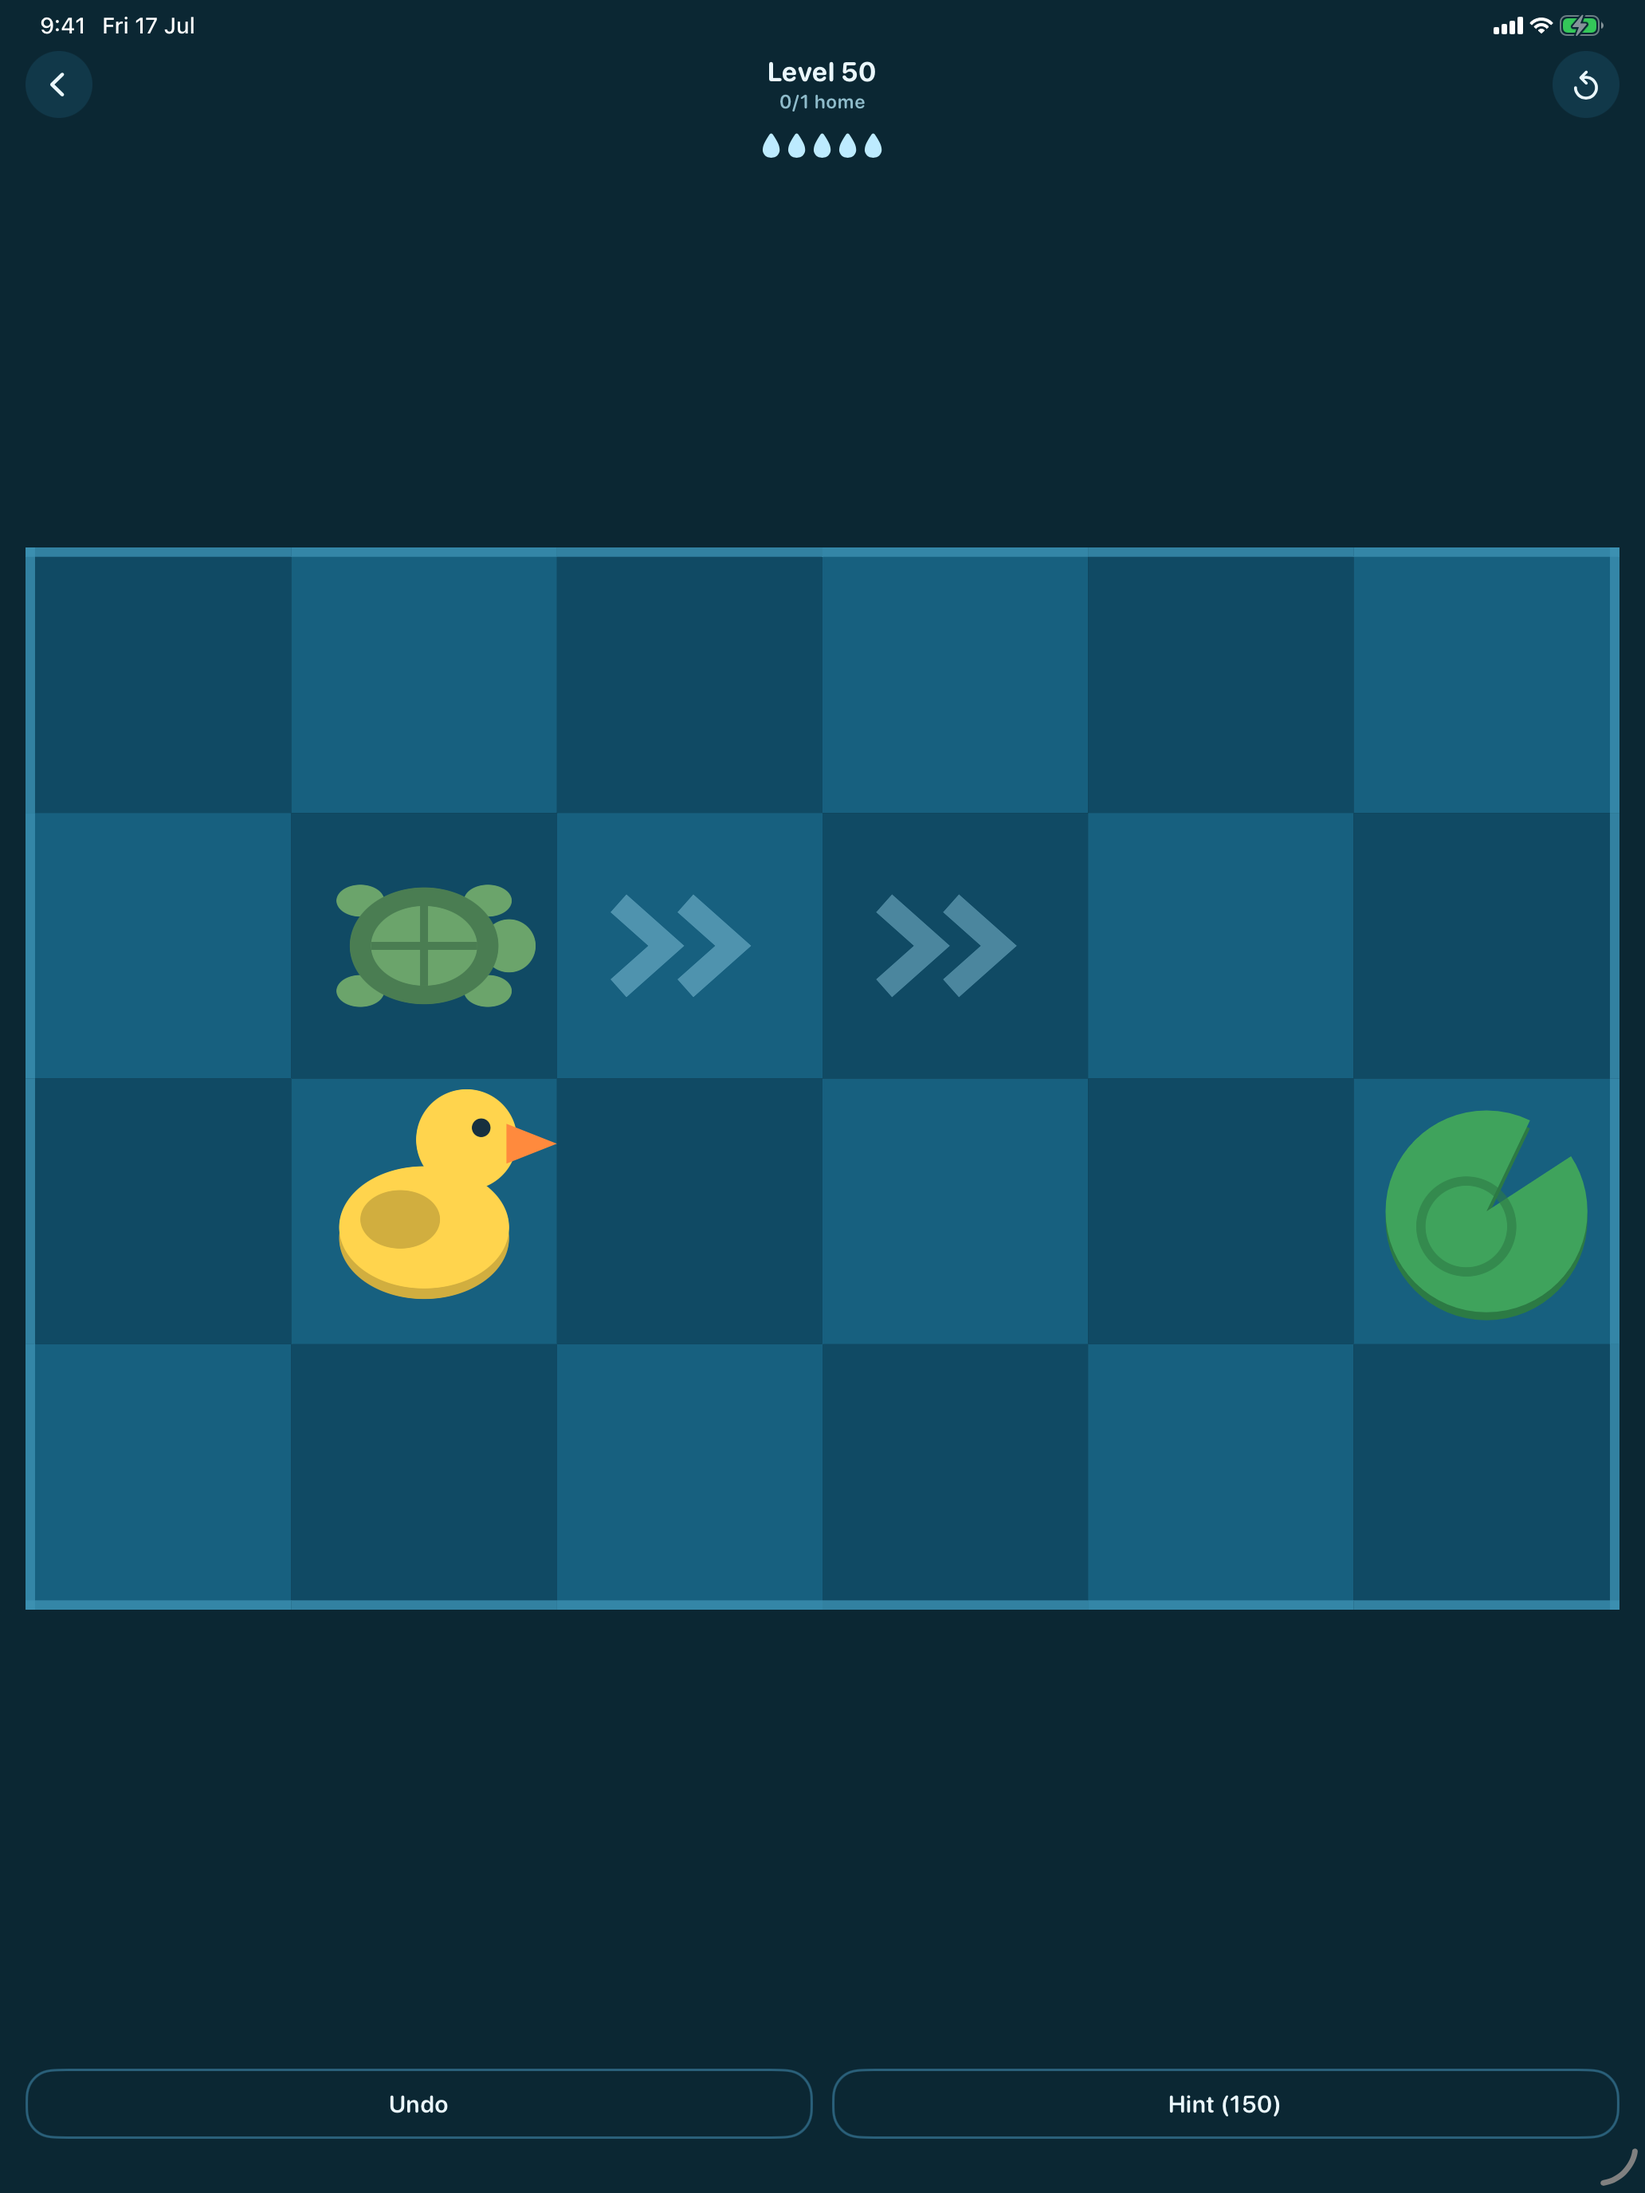
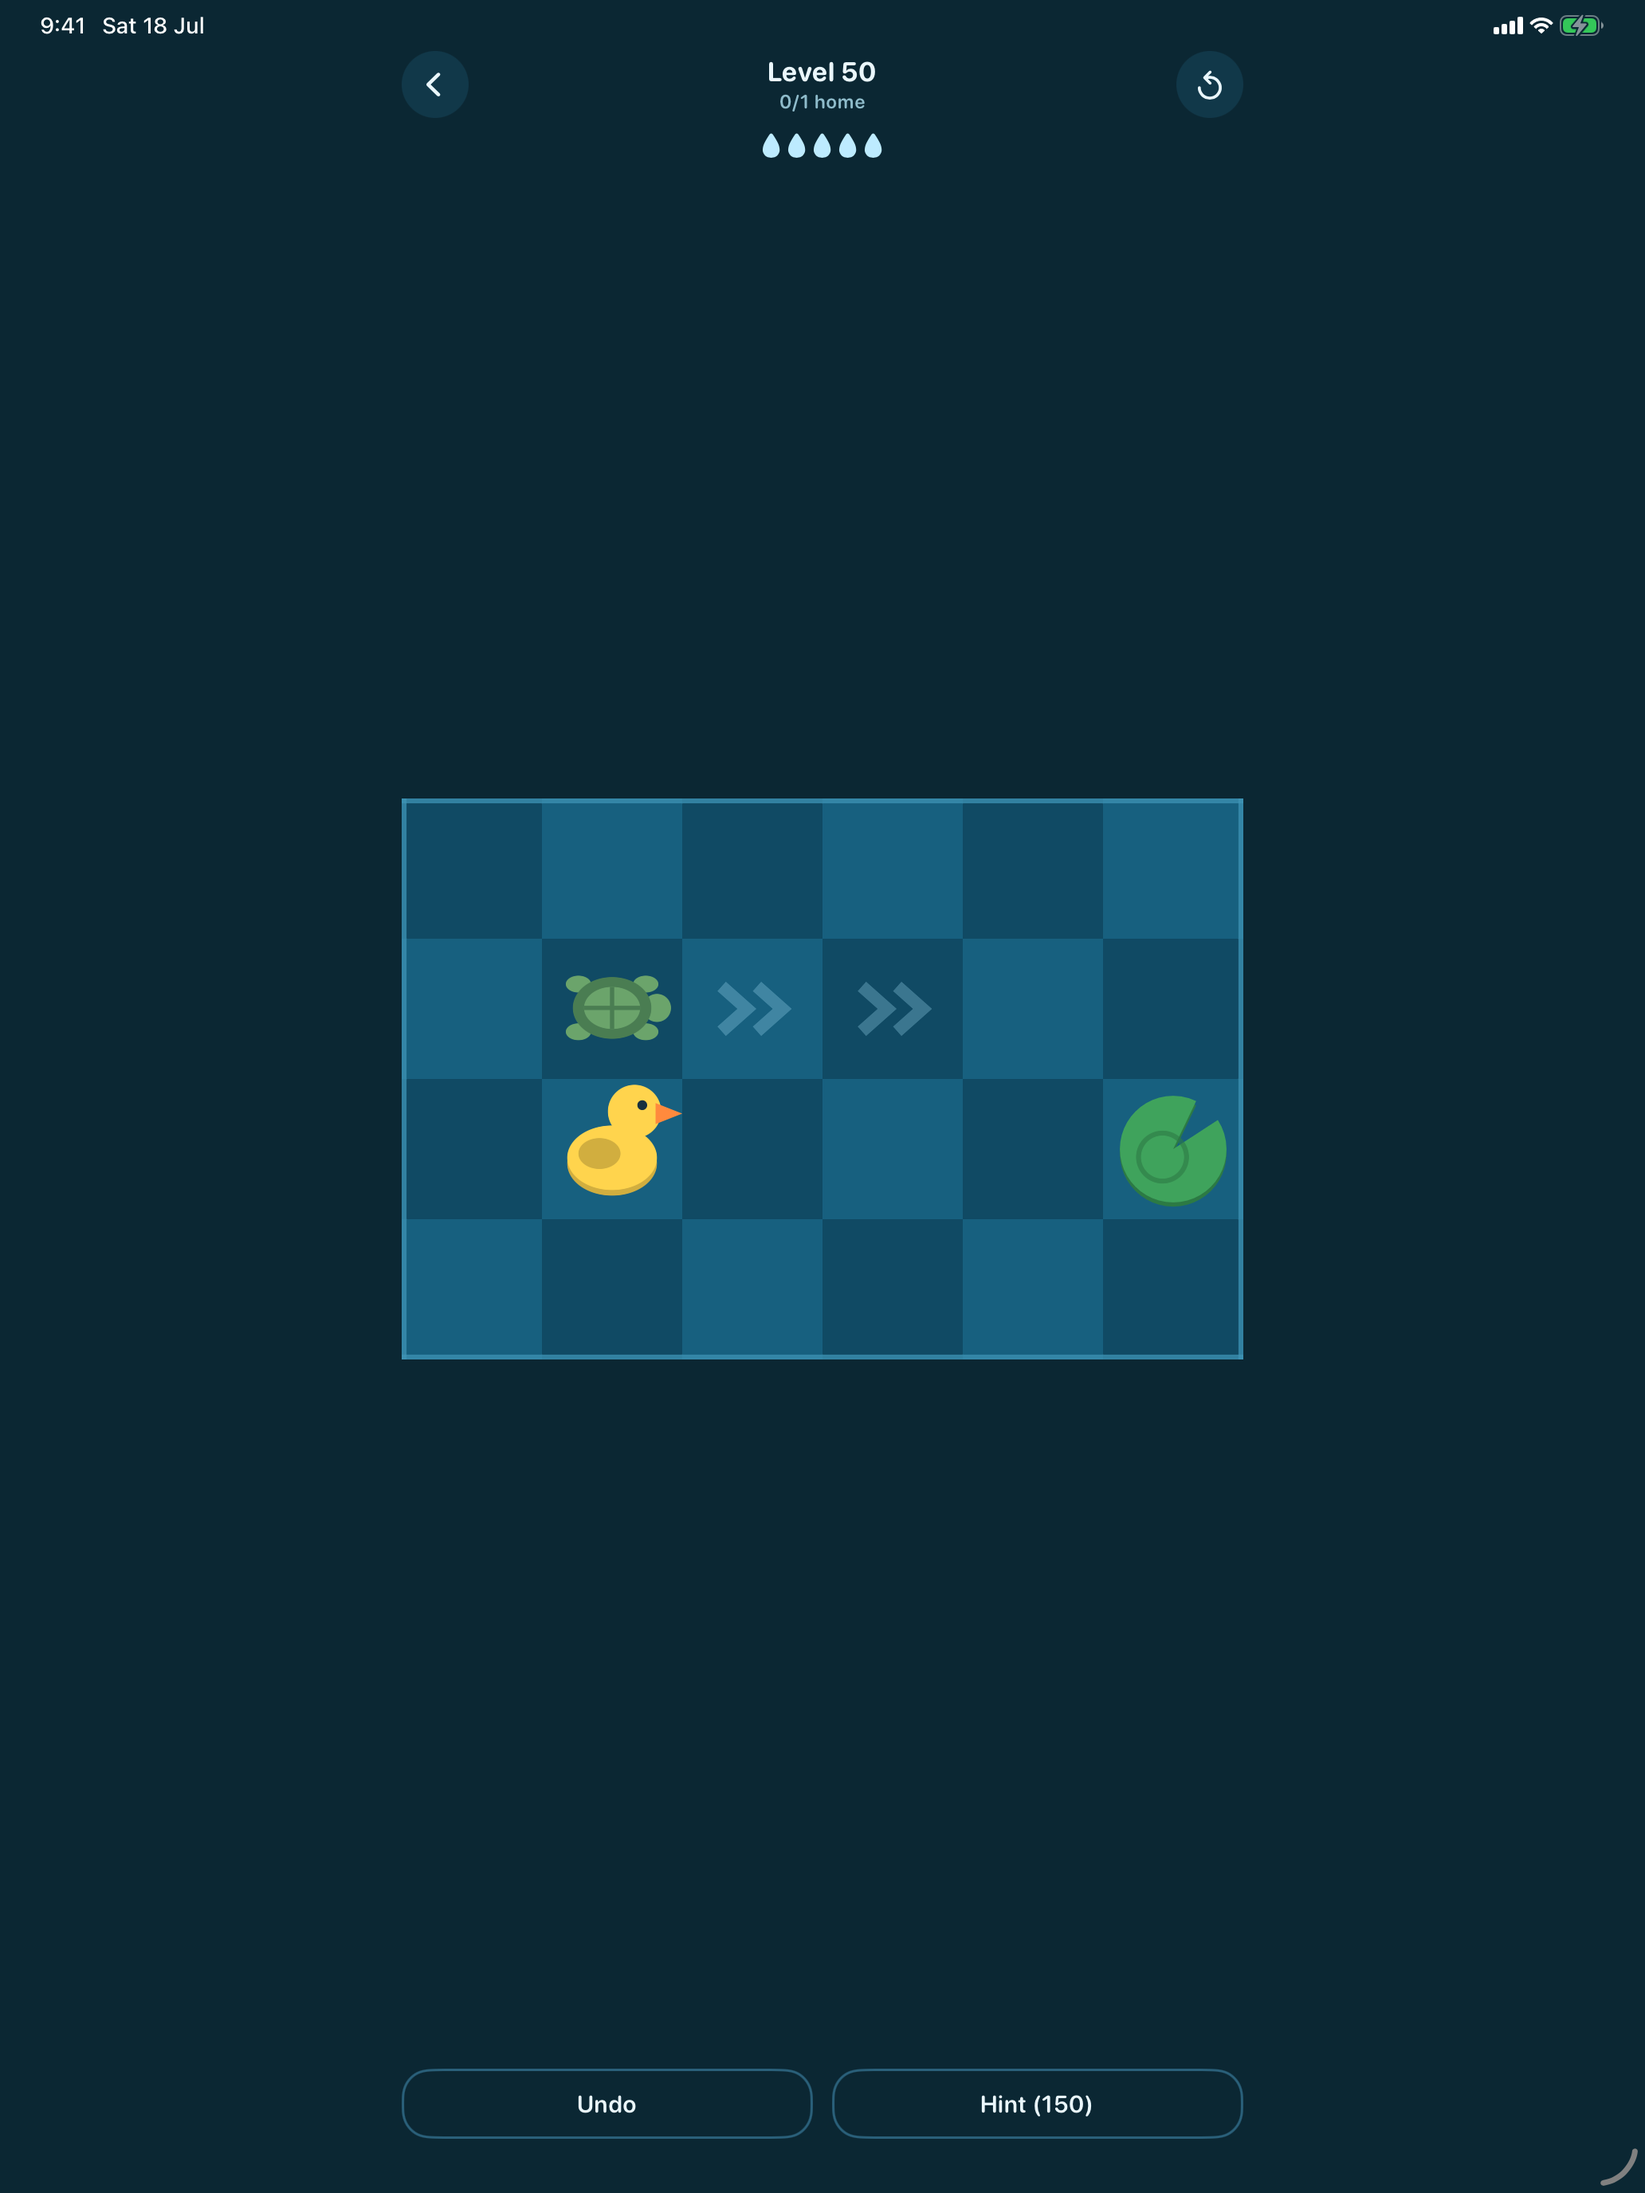
store

diff --git a/PondPulse/UI/Components.swift b/PondPulse/UI/Components.swift
@@ -130,7 +130,7 @@ struct OverlayCard<Content: View>: View {
                 content
             }
             .padding(28)
-            .frame(maxWidth: .infinity)
+            .frame(maxWidth: 420)
             .background(palette.surfaceHigh, in: RoundedRectangle(cornerRadius: 28, style: .continuous))
             .shadow(color: .black.opacity(palette.isDark ? 0.45 : 0.18), radius: 24, y: 10)
             .padding(32)
@@ -213,5 +213,15 @@ enum Haptics {
     static func tick(enabled: Bool) {
         guard enabled else { return }
         soft.impactOccurred(intensity: 0.7)
+    }
+}
+
+// MARK: - Layout helpers
+
+extension View {
+    /// Caps a screen's content at phone-ish width and centers it, so iPads
+    /// don't stretch the phone layout edge to edge.
+    func pondContentWidth(_ maxWidth: CGFloat = 520) -> some View {
+        frame(maxWidth: maxWidth)
     }
 }

diff --git a/PondPulse/Screens/RushView.swift b/PondPulse/Screens/RushView.swift
@@ -140,6 +140,7 @@ private struct RushSetup: View {
                 .padding(.horizontal, 24)
             }
         }
+        .pondContentWidth()
     }
 }
 
@@ -226,6 +227,7 @@ private struct RushPlay: View {
                 .padding(.bottom, 14)
             }
             .padding(.horizontal, 16)
+            .pondContentWidth(560)
 
             if state.won {
                 WinCelebration(skinId: vm.skinId)

diff --git a/PondPulse/Screens/SettingsView.swift b/PondPulse/Screens/SettingsView.swift
@@ -17,6 +17,11 @@ struct SettingsView: View {
     @State private var pickLanguage = false
 
     var body: some View {
+        content
+            .pondContentWidth()
+    }
+
+    private var content: some View {
         VStack(spacing: 0) {
             ScreenHeader(title: strings["settings_title"], onBack: { vm.back() })
 

diff --git a/PondPulse/Screens/GameView.swift b/PondPulse/Screens/GameView.swift
@@ -106,6 +106,7 @@ struct GameView: View {
                 .padding(.bottom, 14)
             }
             .padding(.horizontal, 16)
+            .pondContentWidth(560)
 
             // Win sequence: a heartbeat of confetti and a spinning duck, then the card.
             if state.won {

diff --git a/PondPulse/Screens/ShopView.swift b/PondPulse/Screens/ShopView.swift
@@ -134,6 +134,7 @@ struct ShopView: View {
                     .padding(.bottom, 32)
                 }
             }
+            .pondContentWidth()
 
             // Blocks double-taps while the App Store payment sheet is up.
             if vm.purchasing {

diff --git a/PondPulse/Screens/HomeView.swift b/PondPulse/Screens/HomeView.swift
@@ -177,6 +177,7 @@ struct HomeView: View {
             }
             .padding(.horizontal, 24)
             .padding(.vertical, 16)
+            .pondContentWidth()
 
             if showRules {
                 RulesOverlay { showRules = false }

diff --git a/PondPulse/Screens/PacksView.swift b/PondPulse/Screens/PacksView.swift
@@ -80,6 +80,7 @@ struct PacksView: View {
                 }
             }
         }
+        .pondContentWidth()
     }
 
     private func levelGrid(_ pack: Pack) -> some View {
